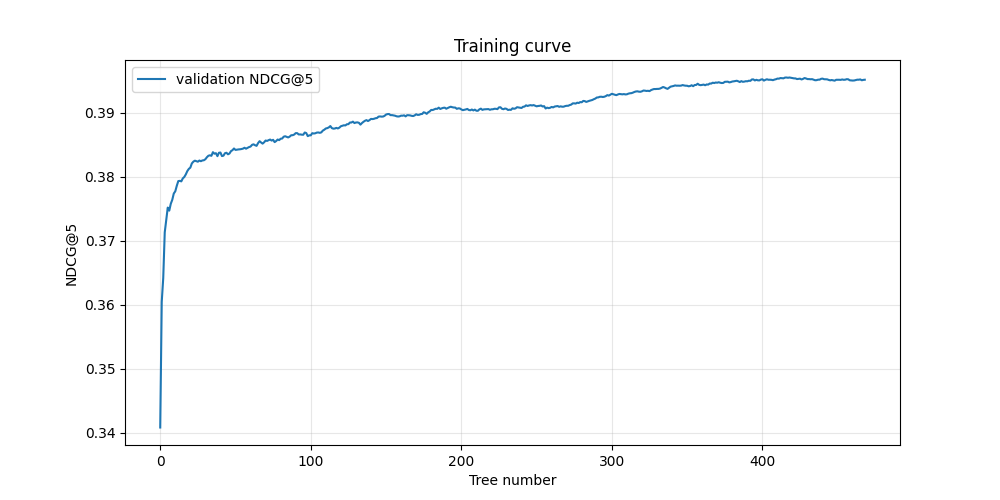
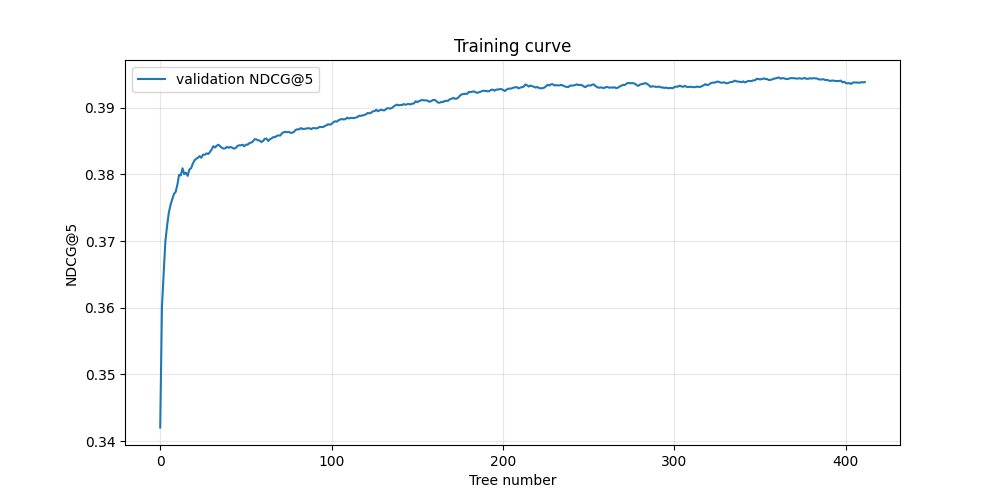
minor changes

diff --git a/other_features.py b/other_features.py
@@ -305,3 +305,32 @@ def add_user_cluster_features_with_validation(
             df[f"cluster_{k}"] = (df["user_cluster"] == k).astype(int)
 
     return train, valid, test
+
+
+def cap_price_usd(train_df: pd.DataFrame, test_df: pd.DataFrame) -> tuple[pd.DataFrame, pd.DataFrame]:
+    """
+    Caps price_usd at the 99th percentile to avoid infeasible prices.
+    Computes cap from training data to avoid leakage
+
+    Params:
+        train_df (pd.DataFrame): the training pandas dataframe.
+        test_df (pd.DataFrame): the test pandas dataframe.
+    Returns:
+        train_df (pd.DataFrame): training dataframe with capped price_usd.
+        test_df (pd.DataFrame): test dataframe with capped price_usd.
+    """
+    # compute cap from training data only
+    p99 = train_df['price_usd'].quantile(0.99)
+    print(f"price_usd 99th percentile cap: {p99:.2f}")
+    print(f"Rows capped in train: {(train_df['price_usd'] > p99).sum()}")
+    print(f"Rows capped in test: {(test_df['price_usd'] > p99).sum()}")
+
+    # add flag before capping
+    train_df['price_usd_was_capped'] = (train_df['price_usd'] > p99).astype(int)
+    test_df['price_usd_was_capped'] = (test_df['price_usd'] > p99).astype(int)
+
+    # cap price_usd
+    train_df['price_usd'] = train_df['price_usd'].clip(upper=p99)
+    test_df['price_usd'] = test_df['price_usd'].clip(upper=p99)
+
+    return train_df, test_df

diff --git a/lambdamart.py b/lambdamart.py
@@ -8,7 +8,8 @@ from pandas import Series
 from xgboost import XGBRanker
 from sklearn.model_selection import GroupShuffleSplit
 from hotel_performance import extract_hotel_performance_train, extract_hotel_performance_test
-from other_features import add_search_relative_features, add_basic_features, add_user_cluster_features_with_validation
+from other_features import add_search_relative_features, add_basic_features, add_user_cluster_features_with_validation, cap_price_usd
+from collaborativefiltering import run_svd_pipeline
 import matplotlib.pyplot as plt
 import lightgbm as lgb
 
@@ -60,6 +61,9 @@ _, valid_fold = extract_hotel_performance_test(
 # feature engineer test set
 _, test_fold = extract_hotel_performance_test(train_df, test_df)
 
+train_fold, test_fold = cap_price_usd(train_fold, test_fold)
+_, valid_fold = cap_price_usd(train_fold, valid_fold)
+
 # Add basic features
 train_fold = add_basic_features(train_fold)
 valid_fold = add_basic_features(valid_fold)
@@ -72,6 +76,10 @@ test_fold = add_search_relative_features(test_fold)
 
 # add cluster features
 train_fold, valid_fold, test_fold = add_user_cluster_features_with_validation(train_fold, valid_fold, test_fold)
+
+# collaborative filtering
+# train_fold, test_fold = run_svd_pipeline(train_fold, test_fold, 20)
+# _, valid_fold = run_svd_pipeline(train_fold, valid_fold, 20)
 
 # add relevance
 train_fold['relevance'] = 0
@@ -225,7 +233,7 @@ submission = (
 )
 
 # save to csv
-submission.to_csv('submission/group154_submission1.csv', index=False)
+submission.to_csv('submission/fake-group154_submission1.csv', index=False)
 
 # validation to csv
 validation = (
@@ -233,7 +241,7 @@ validation = (
     .sort_values(['srch_id', 'prediction'], ascending=[True, False])
     [['srch_id', 'prop_id']]
 )
-validation.to_csv('submission/group154_validation1.csv', index=False)
+validation.to_csv('submission/group154_validation2.csv', index=False)
 
 
 # check features

diff --git a/lambdamart_submission.py b/lambdamart_submission.py
@@ -35,7 +35,7 @@ test_fold = add_search_relative_features(test_fold)
 # add cluster features; probably contains leakage so not actually used currently
 train_full, test_fold = only_train_test_add_user_cluster_features(train_full, test_fold)
 
-#collaborative filtering
+# collaborative filtering
 train_full, test_fold = run_svd_pipeline(train_full, test_fold, 20)
 
 # adding relevance

diff --git a/EDA_gileesa.py b/EDA_gileesa.py
@@ -175,3 +175,4 @@ def print_outliers(col='price_usd'):
 # plot_histograms()
 # test
 print_outliers()
+print_nan_percentage()